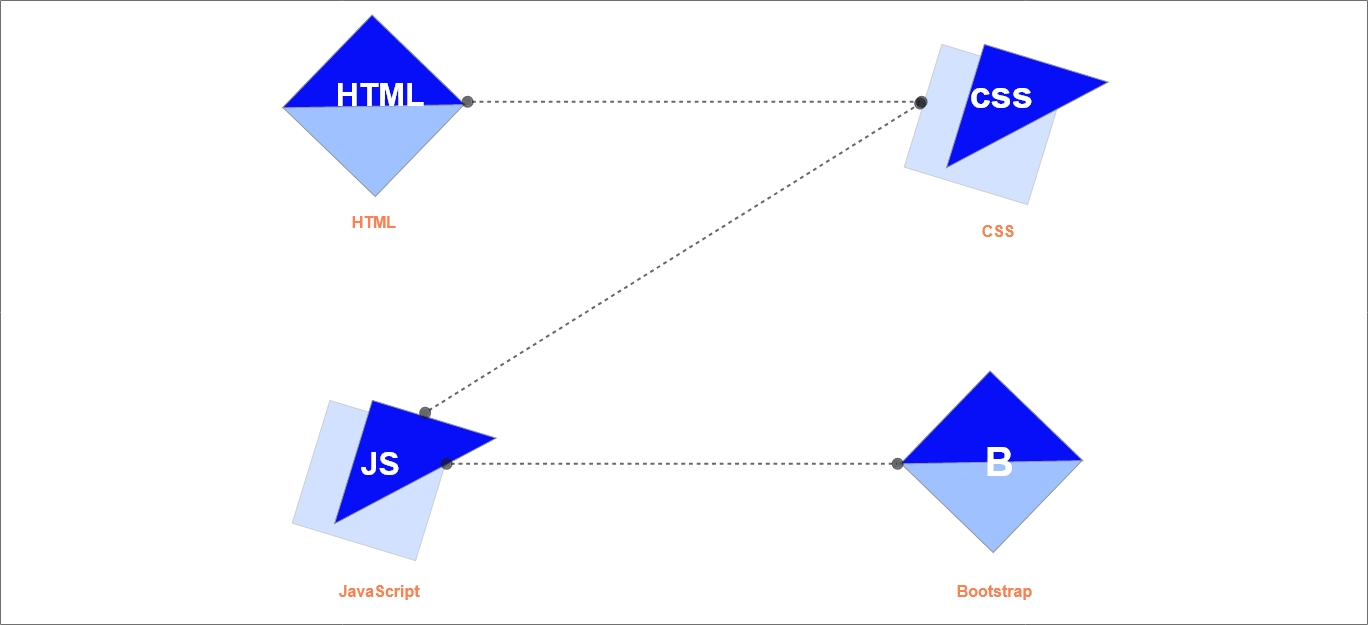
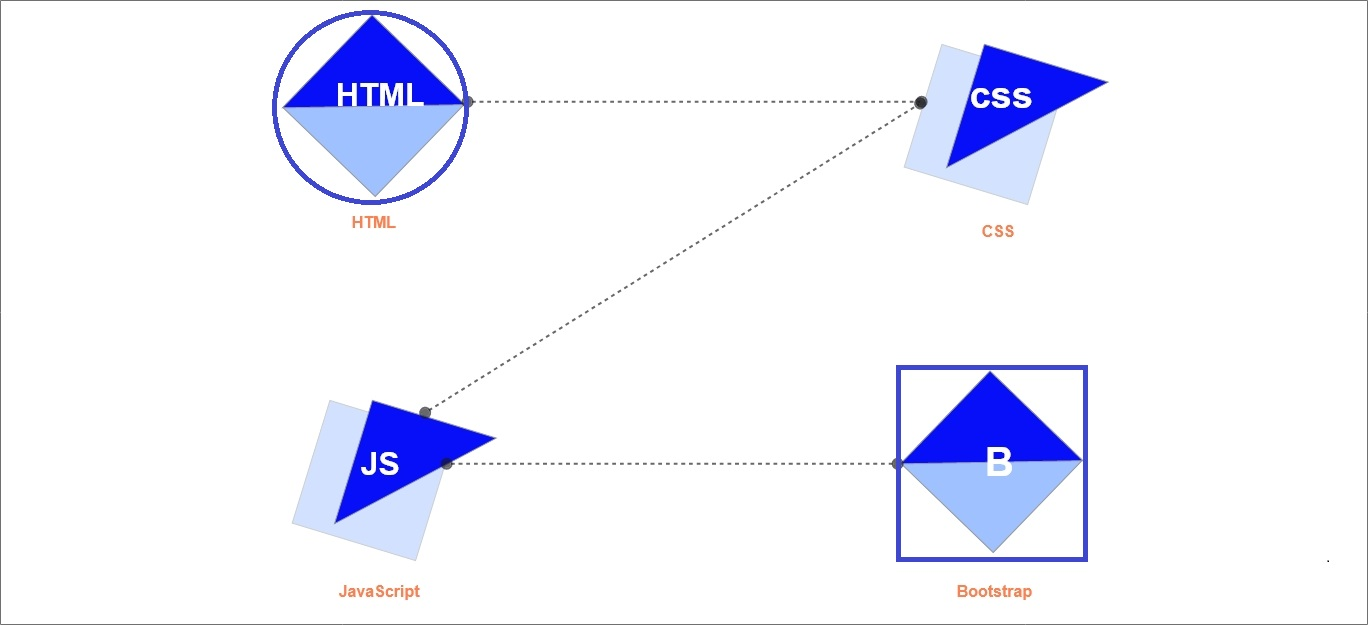
Ninth commit

diff --git a/p/Practical-5.html b/p/Practical-5.html
@@ -21,10 +21,10 @@
     <h2  style="color: white; text-align: center;">Introduction to Front-End Technologies.</h2>
     <center><img src="../img/Group 5.jpg" width="1095" height="500" usemap="#four"></center>
     <map name="four">
-        <area href="../p/HTML.html" shape="poly" coords="298,11 ,370,84 ,300,158 ,225,86"/>
+        <area href="../p/HTML.html" shape="circle" coords="296,86,77"/>
         <area href="../p/CSS.html" shape="poly" coords="753,35 ,784,44 ,787,35 ,887,65 ,846,88 ,823,165 ,723,134"/>
         <area href="../p/Js.html" shape="poly" coords="263,320 ,295,329 ,297,319 ,398,350 ,356,373 ,332,449 ,233,419"/>
-        <area href="../p/B.html" shape="poly" coords="792,296 ,867,369 ,794,443 ,720,371"/>
+        <area href="../p/B.html" shape="rect" coords="716,293 ,870,449"/>
     </map>
     <h2 style="color: white;text-align: center;">Click on any part of logo to know more.</h2>
 
